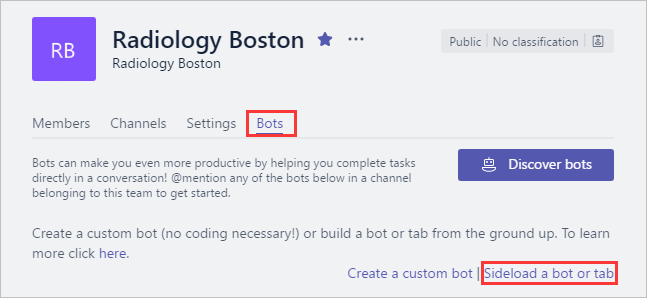
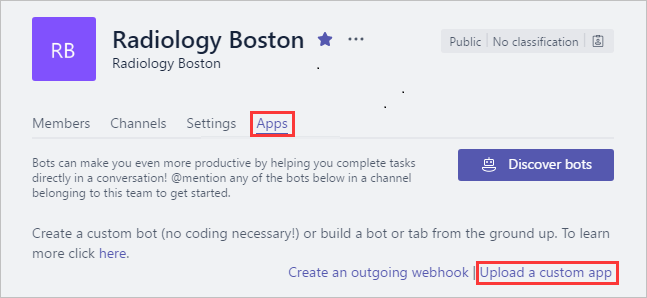
Check in new changes

Changed region(s): [[0.4328, 0.8758, 0.9583, 0.9664], [0.3709, 0.3624, 0.4637, 0.453]]

diff --git a/README.md b/README.md
@@ -36,7 +36,7 @@
 * [Create App Registration for the MS Graph Connector](#create-app-registration-for-the-ms-graph-connector)
 * [Add keyCredential to App Registrations](#add-keycredential-to-app-registrations)
 
-[Register app for Bot Registration](#register-app-for-bot-registration)
+[Register Microsoft App for Bot Registration](#register-microsoft-app-for-bot-registration)
 
 [Deploy Azure Components with ARM Template](#deploy-azure-components-with-arm-template)
 
@@ -440,7 +440,7 @@ Follow the steps below to add keyCredential to App Registrations of the Bot Web 
 3. Insert the keyCredential into the square brackets of the **keyCredentials** node.
 4. Click **Save**.
 
-## Register app for Bot Registration
+## Register Microsoft App for Bot Registration
 
 1. Open [https://apps.dev.microsoft.com/portal/register-app](https://apps.dev.microsoft.com/portal/register-app) in a browser, then sign in with the Huddle work account.
 
@@ -711,7 +711,7 @@ Another way to start 1:1 talk is using the **MicrosoftAppId** of the Bot:
 
 2. Replace the following 2 placeholders with the corresponding values you got in previous guides:
 
-   * `<MicrosoftAppId>`: the App Id of the Microsoft App registered when creating the Bot
+   * `<MicrosoftAppId>`: the Application Id of the Microsoft App registered for Bot Registration.
 
      ![](Images/ms-teams-01.png)
 
@@ -731,11 +731,11 @@ Another way to start 1:1 talk is using the **MicrosoftAppId** of the Bot:
 
    ![](Images/ms-teams-04.png)
 
-6. Click the **Bots** tab.
+6. Click the **Apps** tab.
 
    ![](Images/ms-teams-05.png)
 
-7. Then click **Sideload a bot or tab**.
+7. Then click **Upload a custom app**.
 8. Select the *HuddleTeamsApp.zip*.
 
 ### Add Metric Input Tab
